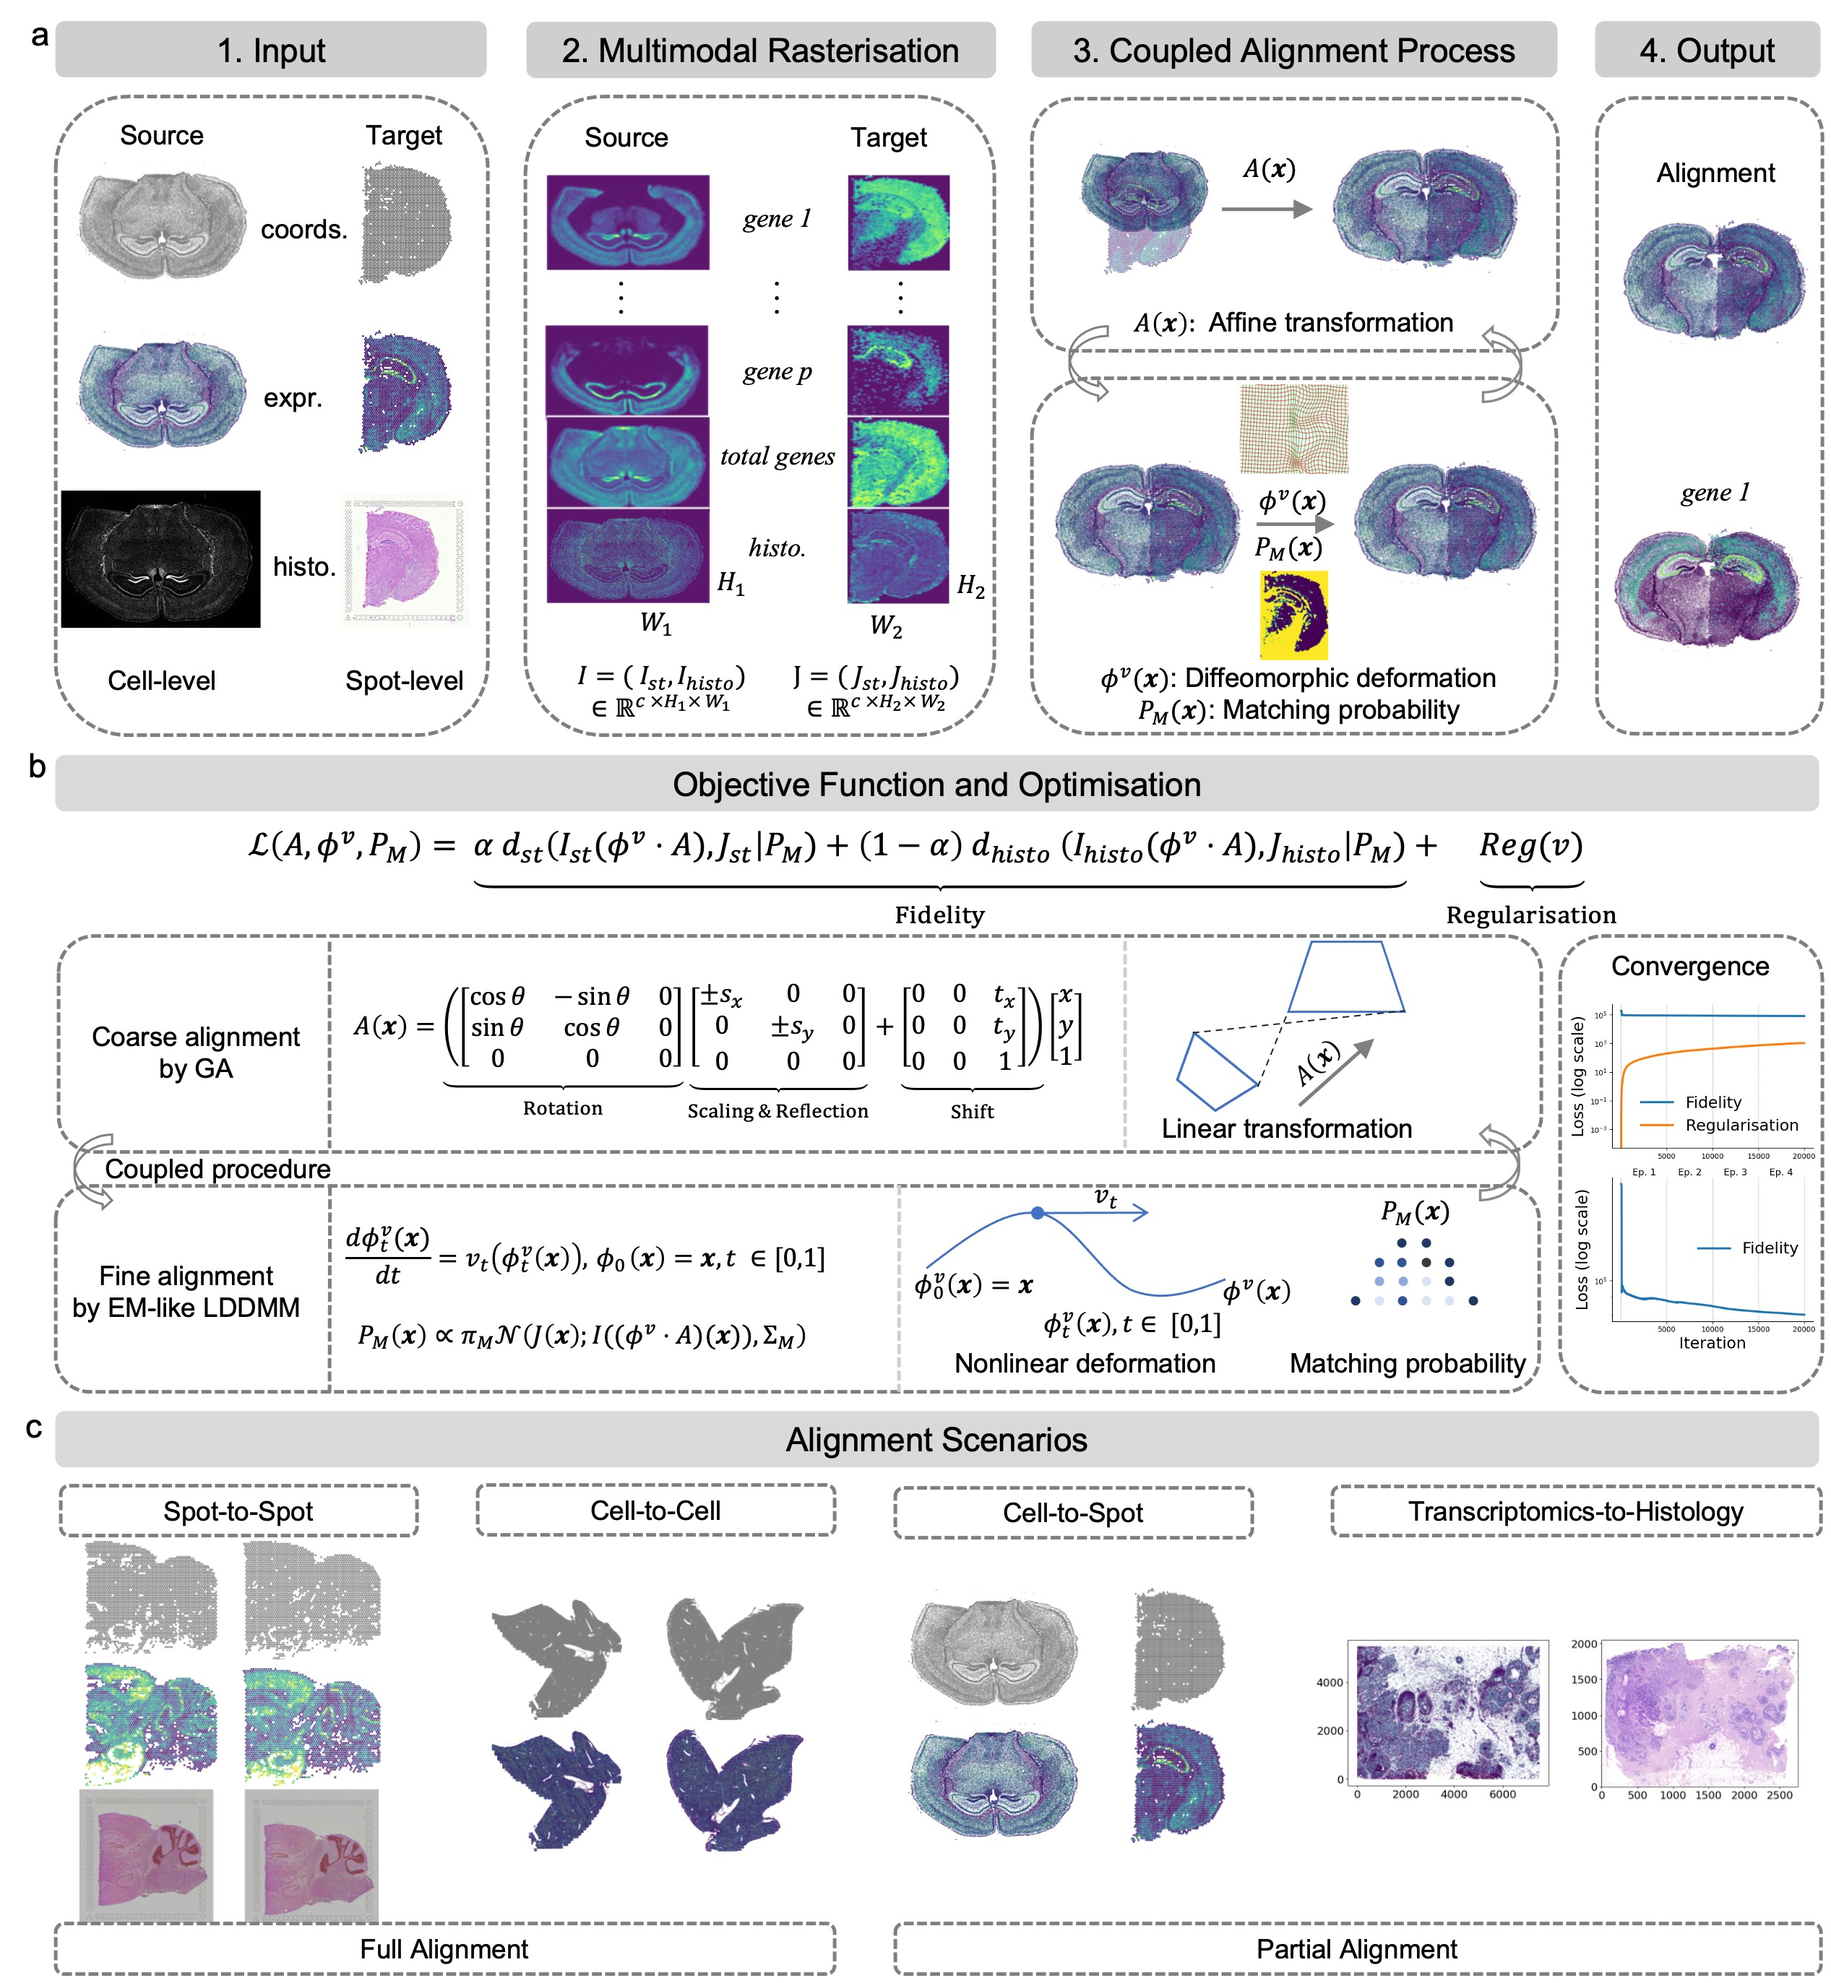
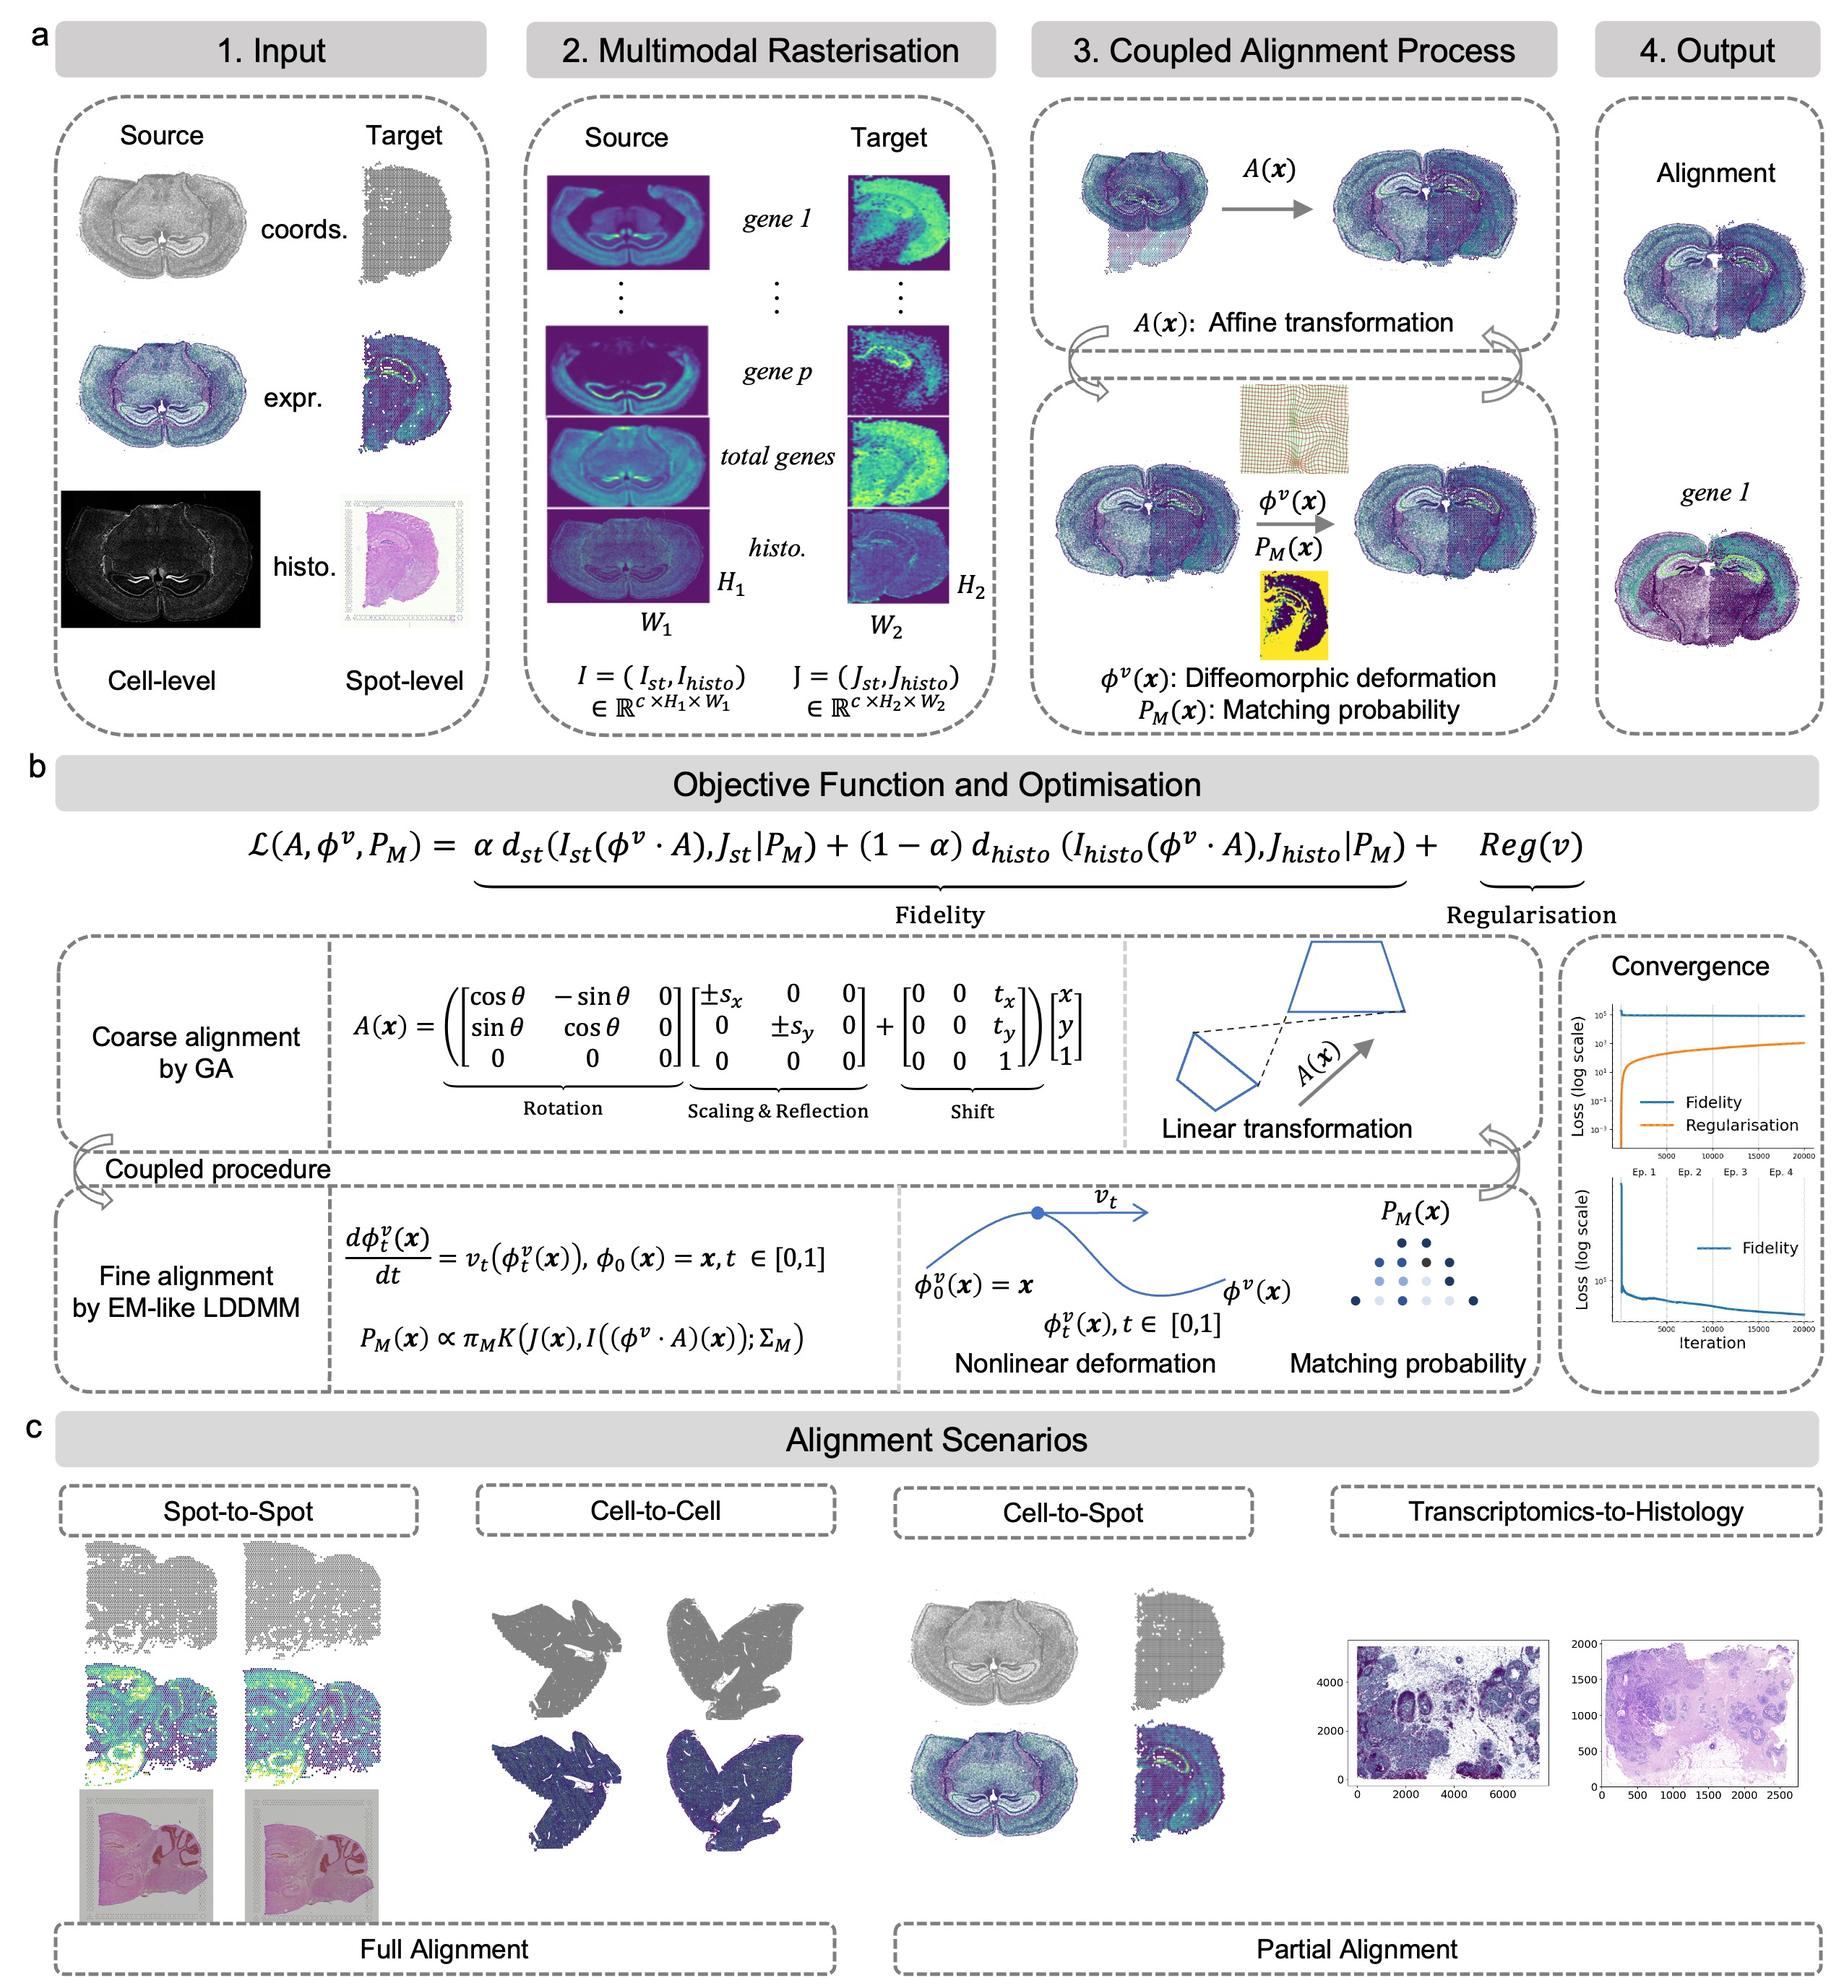
Update: ReadMe and utils functions

diff --git a/GALA/utils.py b/GALA/utils.py
@@ -889,10 +889,10 @@ def plot_cossim(ada_source,ada_target,common_genes,gene_names_to_keep,ax,title,p
     ax.barh(y=bin_rights, width=grouped['total_expr'], color='gray', height=0.1)
 
     # 添加均值线
-    median_val = np.median(sim_df.iloc[:, 1])
-    ax.axhline(y=median_val, color='red', linestyle='--', linewidth=1)
-    ax.text(x=max(grouped['total_expr']) * 0.5, y=median_val,
-             s=f'Median: {median_val:.2f}', color='red', va='top', ha='right',size = fs0)
+    mean_val = np.mean(sim_df.iloc[:, 1])
+    ax.axhline(y=mean_val, color='red', linestyle='--', linewidth=1)
+    ax.text(x=max(grouped['total_expr']) * 0.5, y=mean_val,
+             s=f'Mean: {mean_val:.3f}', color='red', va='top', ha='right',size = fs0)
     # 4. 遍历 merged 画标线
     for key, info in merged.items():
         genes = info['genes']
@@ -902,7 +902,7 @@ def plot_cossim(ada_source,ada_target,common_genes,gene_names_to_keep,ax,title,p
 
         ax.axhline(y=mean_sim, color='black', linestyle='--', linewidth=1)
         ax.text(x=max(grouped['total_expr']) * 1.1, y=mean_sim,
-                 s=f'{label}: {mean_sim:.2f}',
+                 s=f'{label}: {mean_sim:.3f}',
                  va='bottom', ha='right',size = fs0,fontstyle='italic')
     # 美化图
     ax.ticklabel_format(style='sci', axis='x', scilimits=(0, 0))
